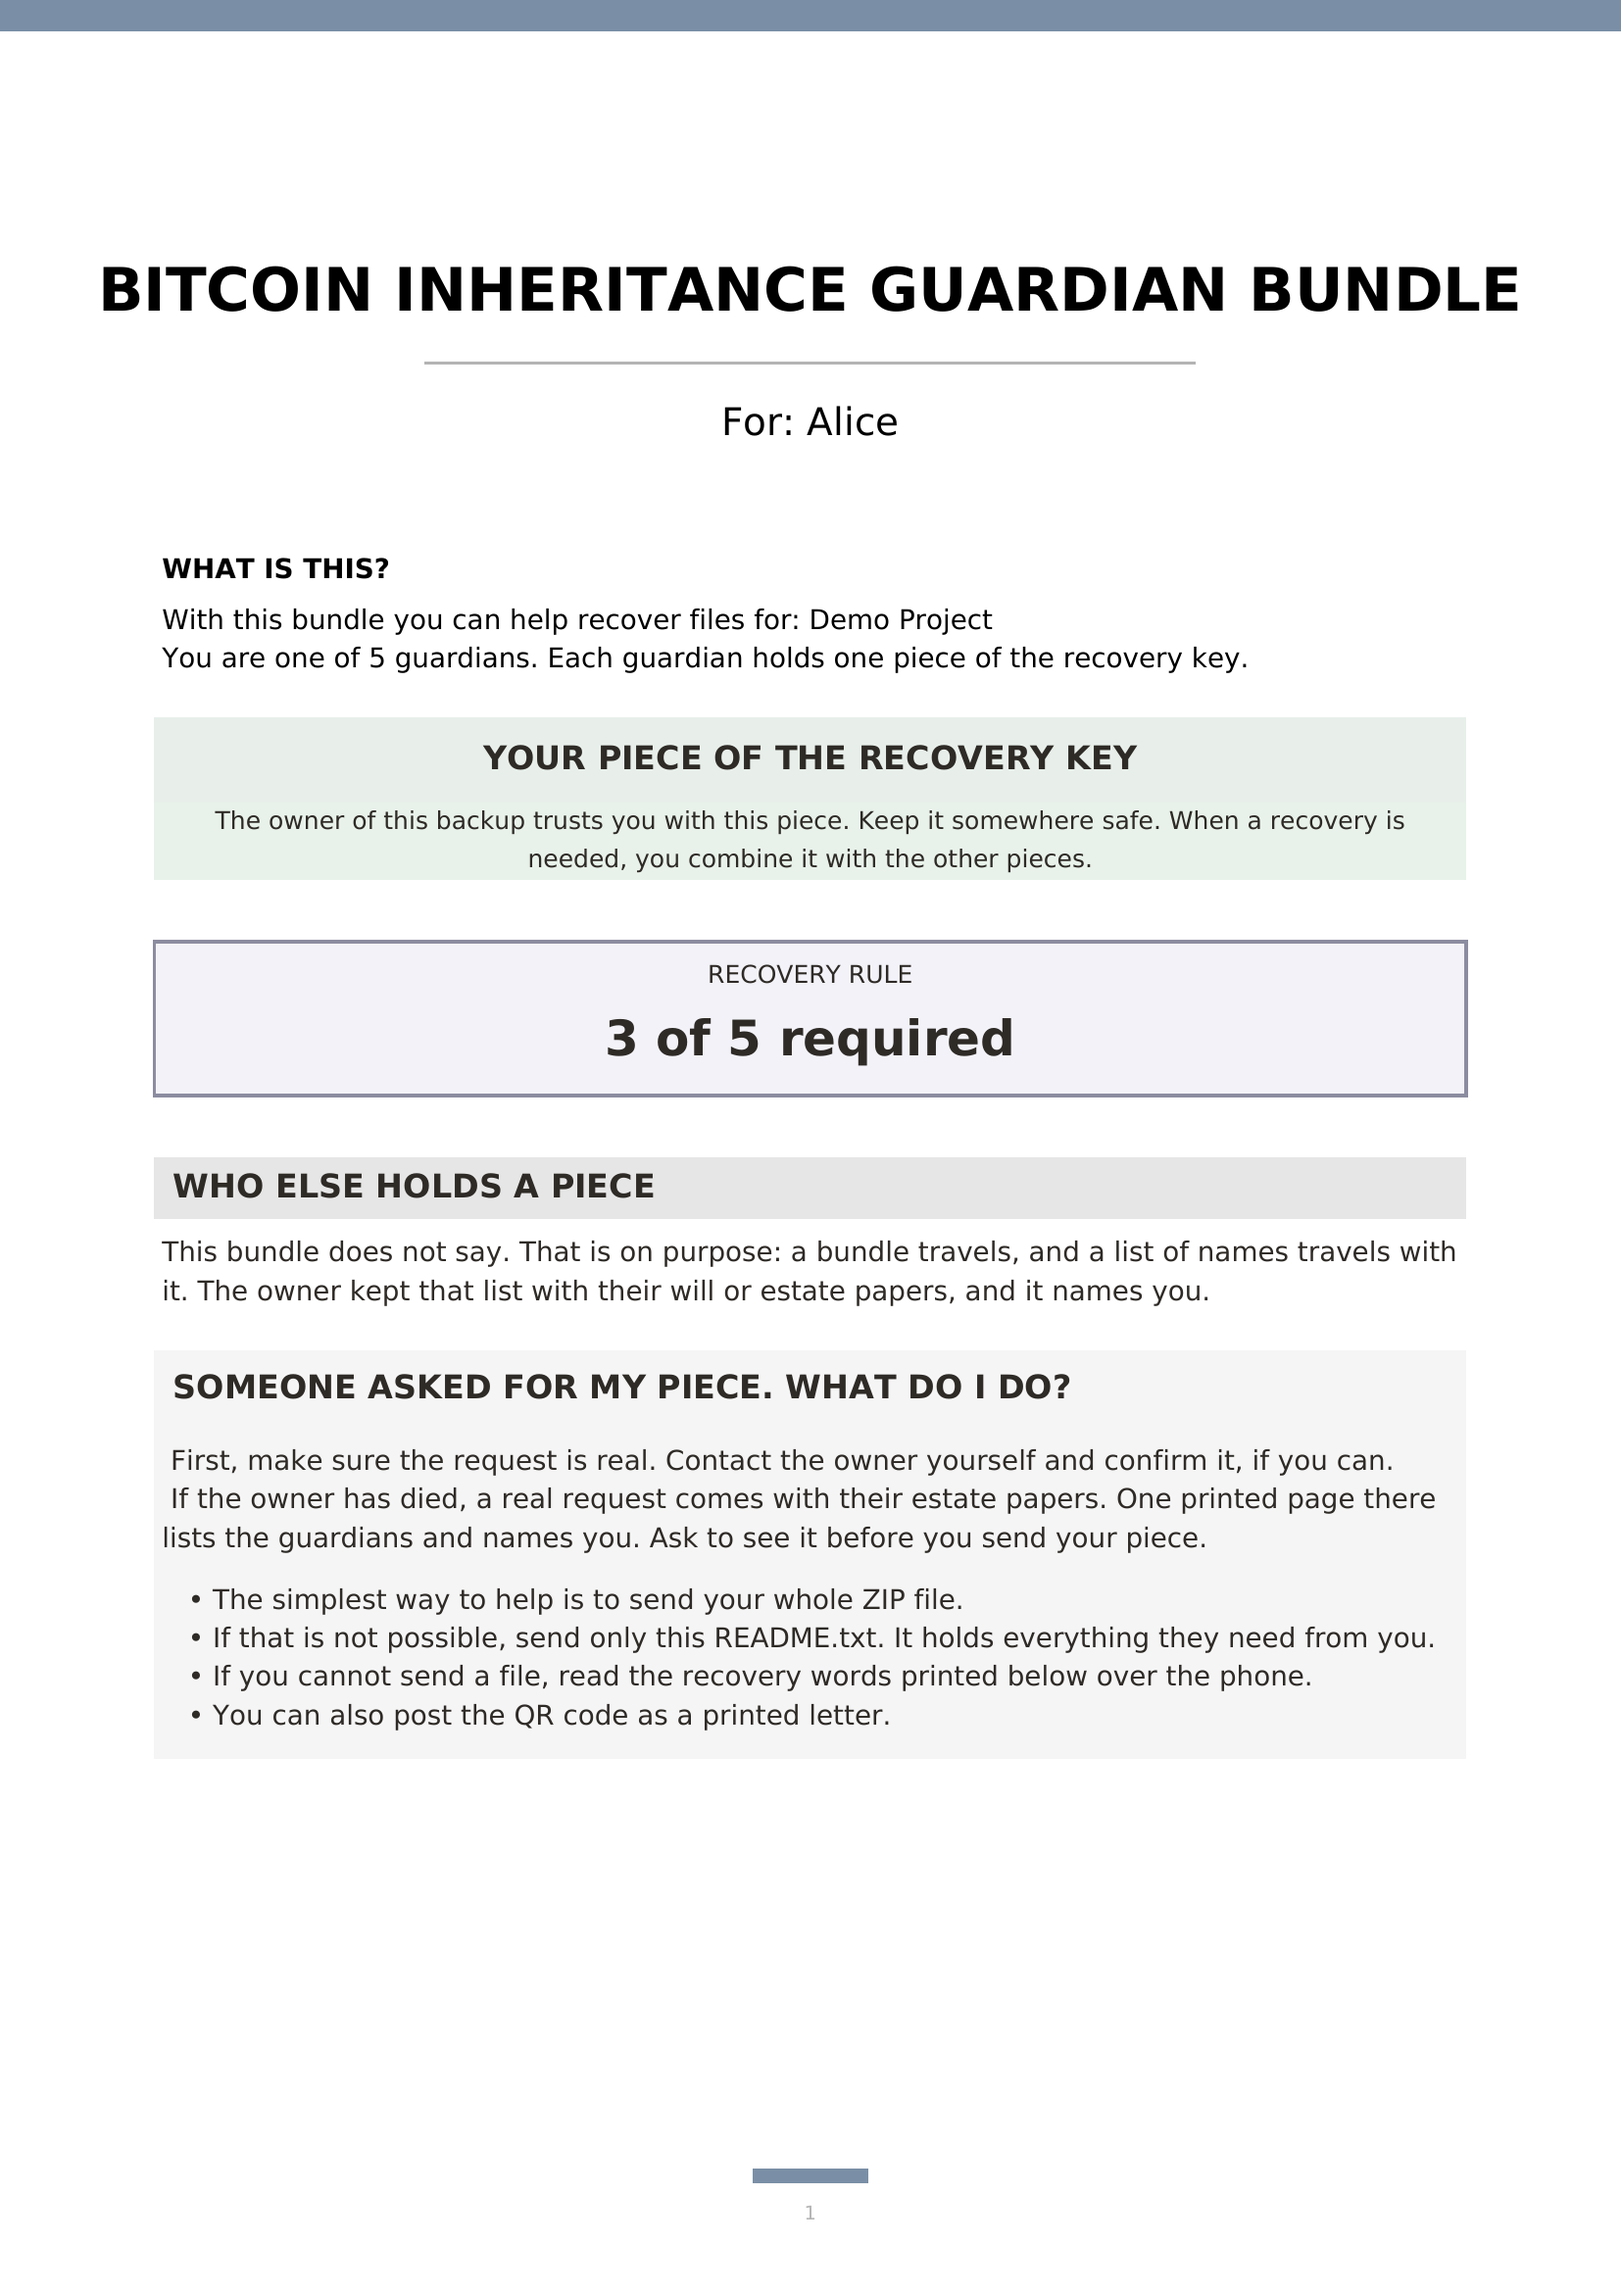
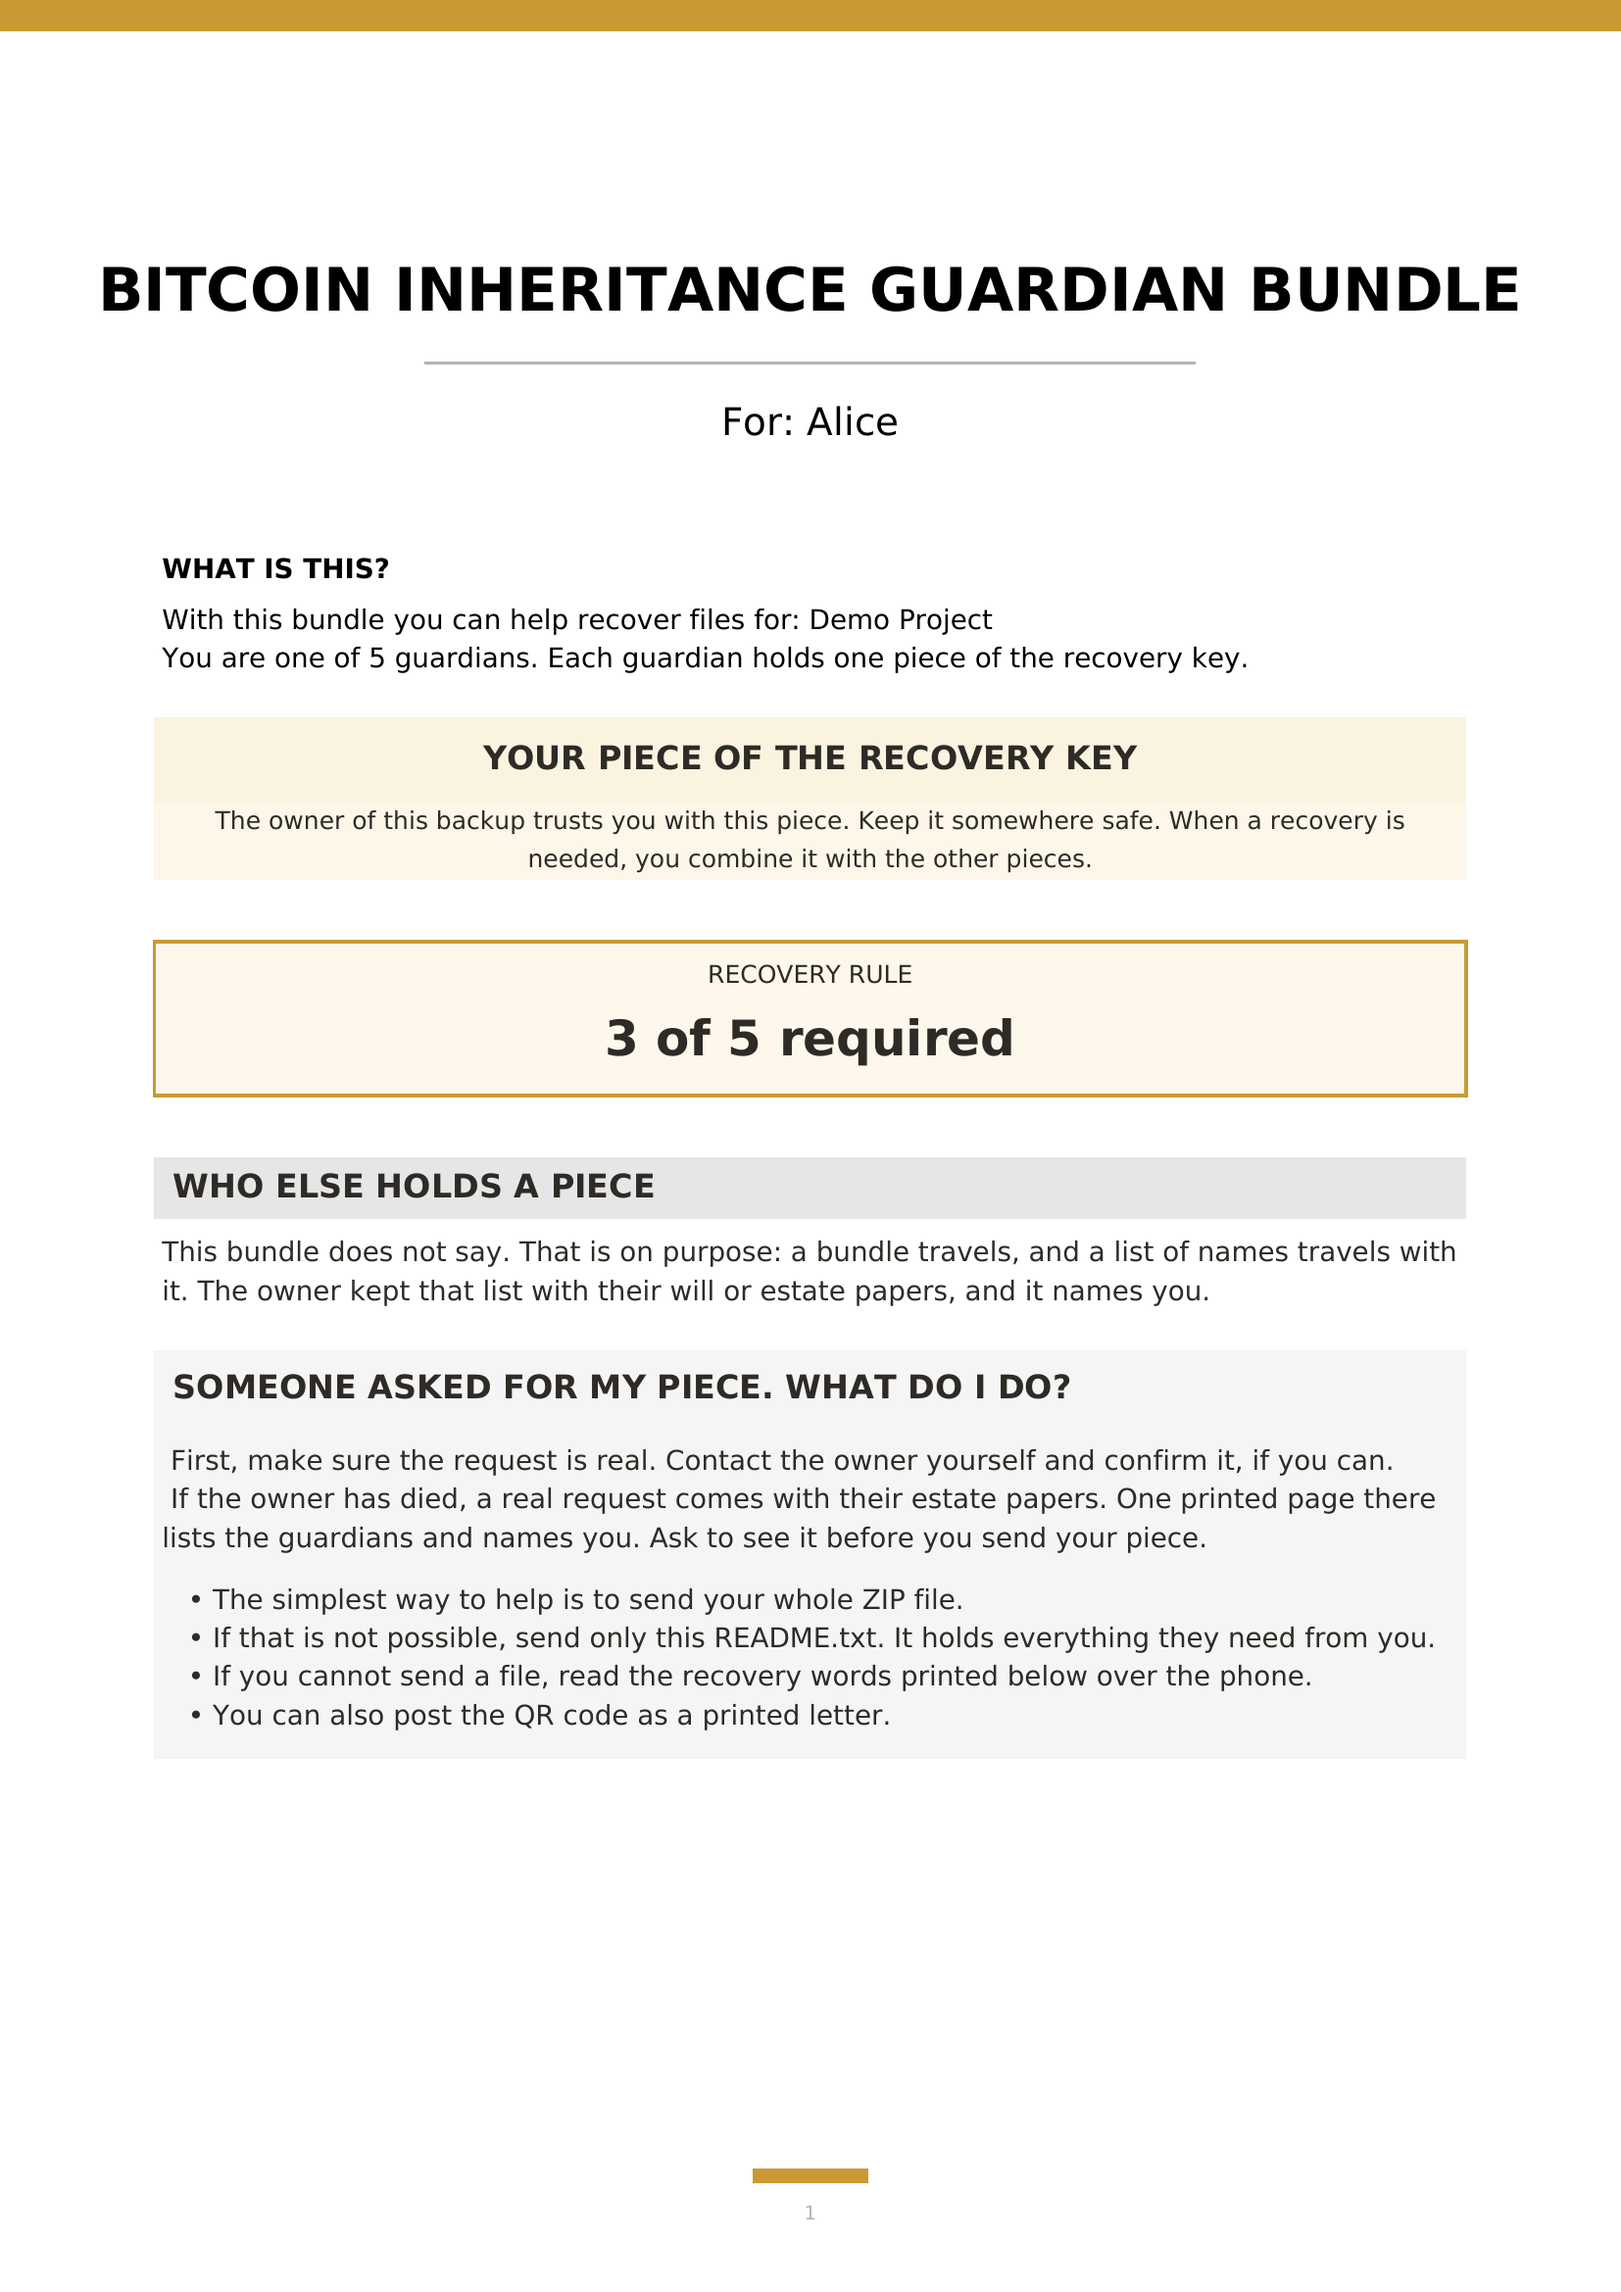
The printed page is ours, and the build instructions say one thing
The guardian PDF still carried the upstream palette: a dusty-blue band,
pale green panels and a lavender recovery-rule box. It is the Bitcoin
Butlers warm family now, deepened for ink, because the web gold #FBDC7B
is too light to read as a band on white paper.

It stays light rather than going to our dark mode. This document is made
to be printed: it carries a QR code to scan off paper and tells its
holder they can post it as a letter. A dark page prints as a black page.

Each guardian still gets their own colour, so a stack of printed pages
can be told apart.

Also removed: the paragraphs in the Dockerfile, the compose file, the
self-hosting guide and the README explaining why not to pull upstream's
image. Ours is the only instruction now. A reader does not need a second
rule about a thing we are not asking them to do.

Verified: the image still builds and the container still serves.

Changed region(s): [[0.0, 0.0, 1.0, 0.0312], [0.4625, 0.9363, 0.5242, 0.9675]]

diff --git a/internal/pdf/readme.go b/internal/pdf/readme.go
@@ -44,17 +44,25 @@ const (
 	smallMono   = 7.0
 )
 
-// bundleColors are soft, distinguishable colors used to give each friend's
-// printed PDF a unique visual identity. Indexed by (share.Index - 1) % len.
+// bundleColors give each guardian's printed page its own band, so a stack of
+// them can be told apart at a glance. Indexed by (share.Index - 1) % len.
+//
+// The Bitcoin Butlers warm family, deepened for ink. The web palette's gold
+// (#FBDC7B) is too light to read as a band on white paper, so these are the
+// same hues at print weight.
+//
+// This document stays light. It is made to be printed: it carries a QR code
+// to scan off paper and tells the holder they can post it as a letter. A dark
+// page prints as a black page.
 var bundleColors = [][3]int{
-	{122, 143, 166}, // dusty blue
-	{85, 115, 90},   // sage
-	{166, 130, 100}, // warm tan
-	{140, 110, 140}, // muted plum
-	{110, 145, 140}, // teal
-	{180, 140, 100}, // amber
-	{120, 130, 160}, // slate
-	{155, 120, 120}, // dusty rose
+	{201, 154, 51},  // gold
+	{176, 122, 44},  // bronze
+	{209, 128, 47},  // amber
+	{184, 146, 86},  // sand
+	{150, 98, 40},   // copper
+	{198, 170, 110}, // pale gold
+	{155, 110, 70},  // warm tan
+	{132, 96, 58},   // dark bronze
 }
 
 // QR code size in mm on the PDF page.
@@ -151,11 +159,11 @@ func GenerateReadme(data ReadmeData) ([]byte, error) {
 	p.Ln(5)
 
 	// ── Warning stamp — soft, centered, calm ──
-	p.SetFillColor(232, 239, 234)
+	p.SetFillColor(250, 243, 224)
 	p.SetTextColor(46, 42, 38)
 	p.SetFont(fontSans, "B", headingSize)
 	p.CellFormat(0, 11, t("warning_title"), "", 1, "C", true, 0, "")
-	p.SetFillColor(232, 242, 234)
+	p.SetFillColor(252, 247, 233)
 	p.SetFont(fontSans, "", 9)
 	p.MultiCell(0, 5, t("warning_message"), "", "C", true)
 	p.Ln(8)
@@ -163,8 +171,8 @@ func GenerateReadme(data ReadmeData) ([]byte, error) {
 	// ── Recovery rule — prominent standalone box ──
 	// Skipped in hide-quorum mode: the box only states k of N.
 	if data.Threshold > 0 {
-		p.SetFillColor(242, 242, 248)
-		p.SetDrawColor(140, 140, 160)
+		p.SetFillColor(253, 248, 235)
+		p.SetDrawColor(201, 154, 51)
 		p.SetLineWidth(0.5)
 		ruleBoxY := p.GetY()
 		ruleBoxH := 20.0

diff --git a/docs/selfhosted.md b/docs/selfhosted.md
@@ -30,10 +30,7 @@ Run Bitcoin Inheritance as a web app on your own server — create bundles, stor
 
 ### Docker
 
-**There is no published image, and you should not pull one.** Upstream's
-`ghcr.io/eljojo/rememory` is a different build: bundles made by it still name
-every guardian in every README, with their contact details. Build from this
-repository instead.
+Build the image from this repository:
 
 ```bash
 docker build -t inheritance:local .
@@ -76,8 +73,7 @@ The final image carries the binary and a CA bundle, nothing else. Data lives in 
 
 ### Without Docker
 
-Build the binary, then run it. There are no published binaries either, so
-this is the only way to get one:
+Build the binary, then run it:
 
 ```bash
 npm install

diff --git a/README.md b/README.md
@@ -150,8 +150,7 @@ they cannot gather enough guardians.
 
 ## Build it
 
-There are no published binaries and no published container image. Build from
-this repository.
+Build from this repository.
 
 ```bash
 npm install && make build      # needs Go and Node
@@ -163,7 +162,6 @@ make html                      # the static pages, into dist/
 ```
 
 Self-hosting a recovery server is in [docs/selfhosted.md](docs/selfhosted.md).
-It builds the image from this source; never pull upstream's.
 
 ---
 
